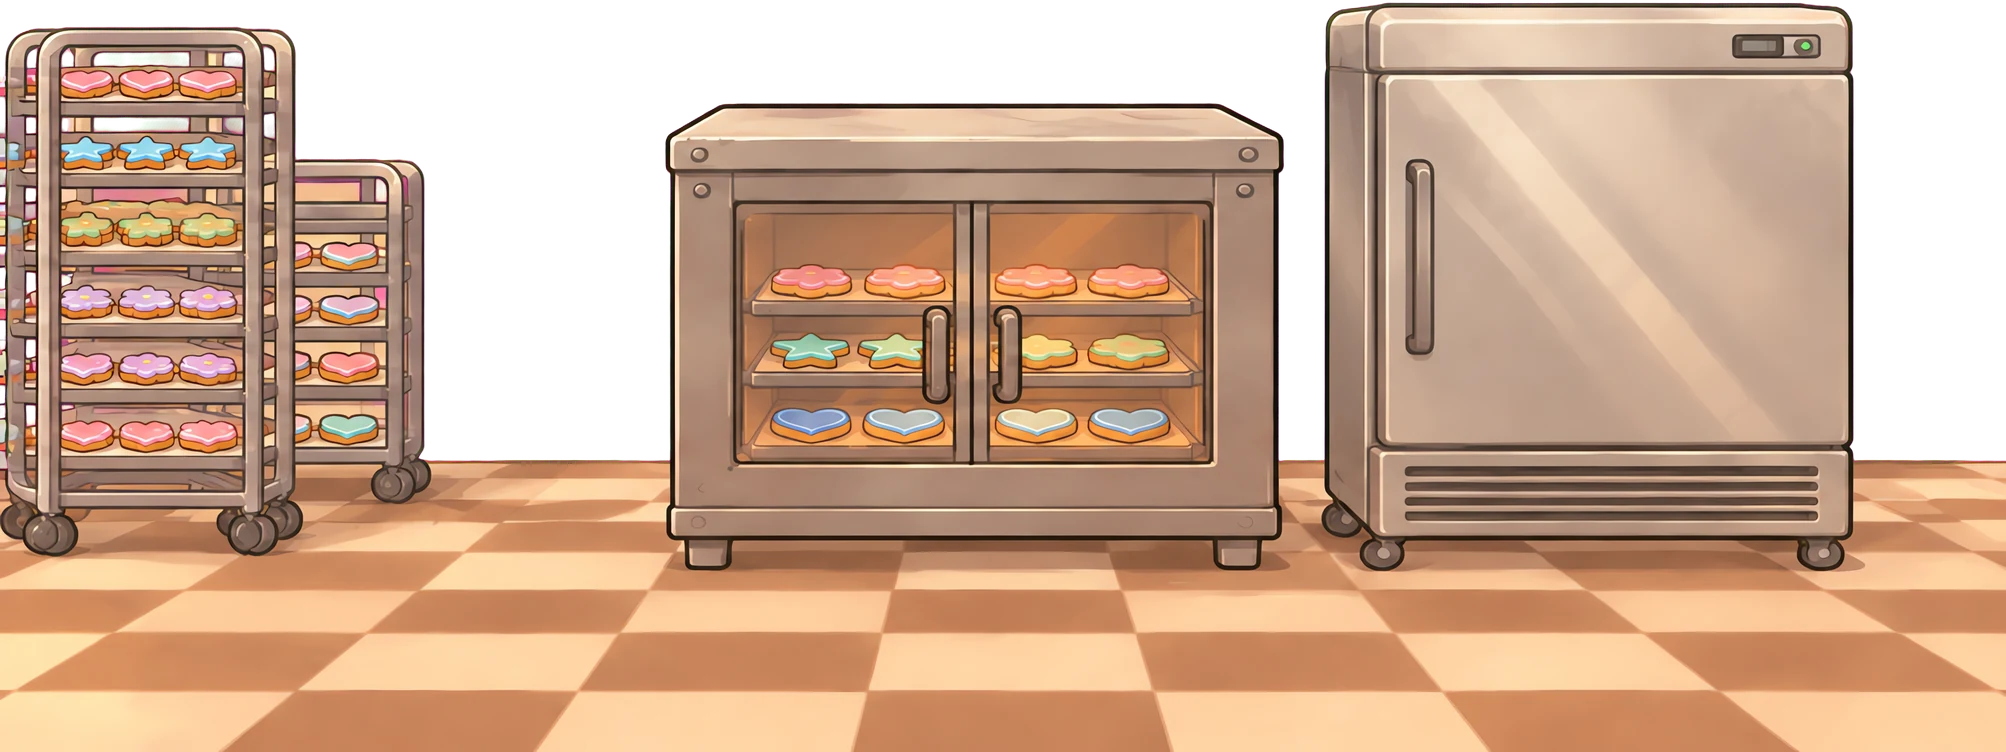
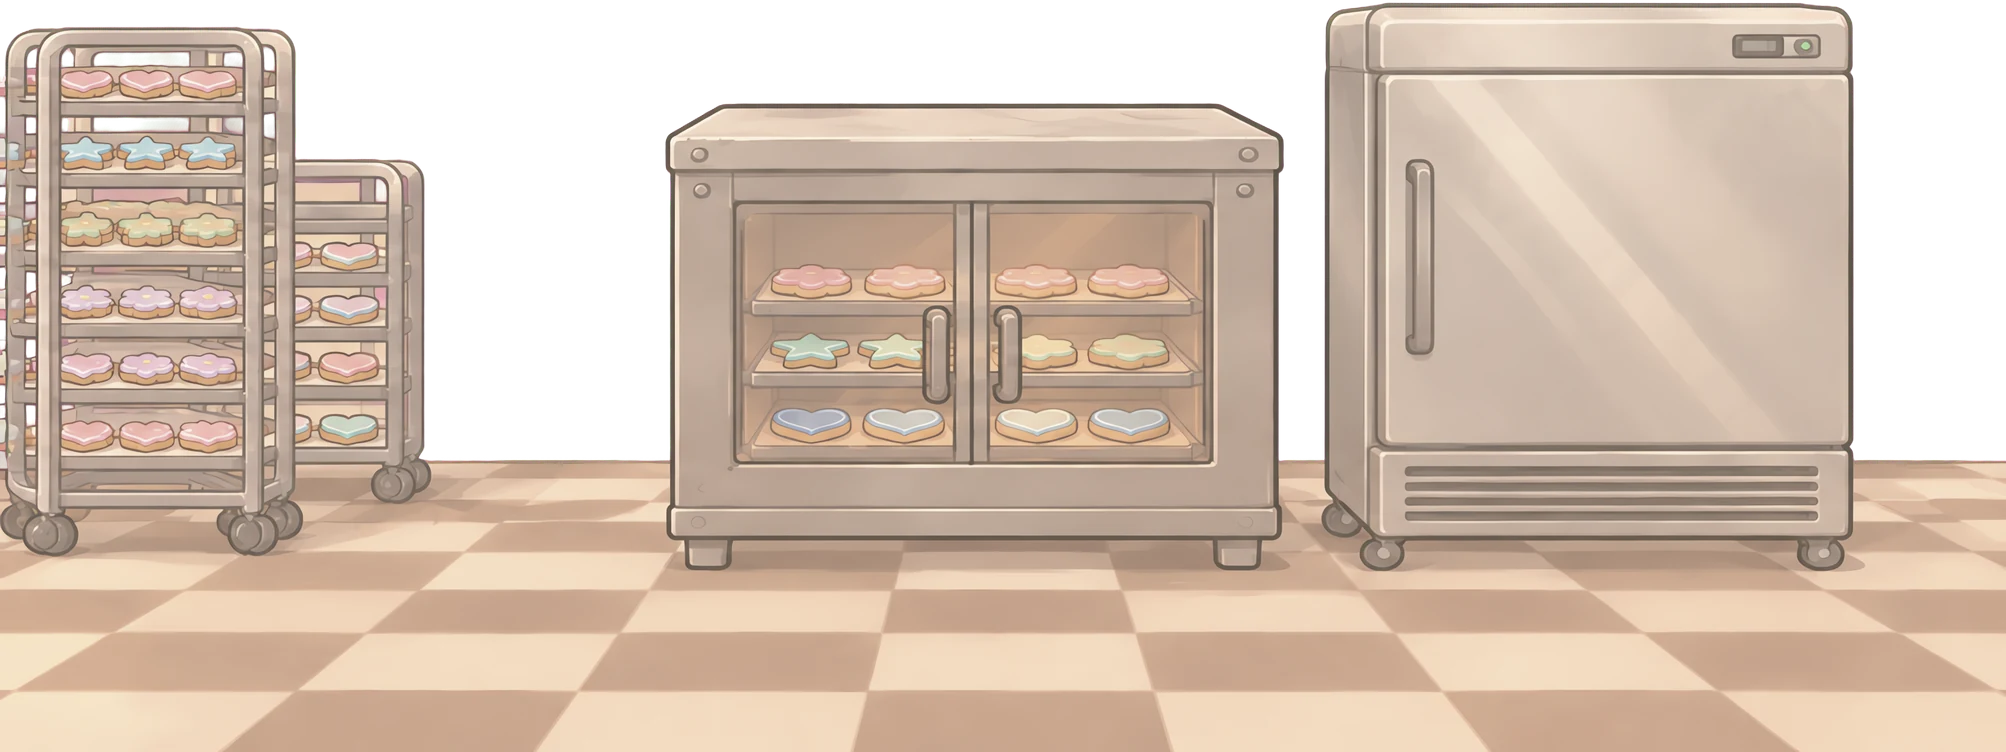
feat(art): fade the pastry kitchen background behind the fighters

diff --git a/packages/game/src/render/stageView.ts b/packages/game/src/render/stageView.ts
@@ -221,7 +221,7 @@ const CONFEITARIA: StageArt = {
       width: 1421.2,
       originX: 0.5,
       originY: 0.5,
-      fillBelow: 0xfacfa9,
+      fillBelow: 0xf0d8c1,
     },
     {
       key: 'far',
@@ -231,7 +231,7 @@ const CONFEITARIA: StageArt = {
       width: 1003.2,
       originX: 0.5,
       originY: 1,
-      fillBelow: 0xe7b083,
+      fillBelow: 0xe1c3aa,
       tiles: 'mirror',
     },
     {
@@ -242,8 +242,8 @@ const CONFEITARIA: StageArt = {
       width: 919.6,
       originX: 0.5,
       originY: 1,
-      // a cor do pé do piso estendido (escurece embaixo)
-      fillBelow: 0x8f6742,
+      // a cor do pé do piso estendido (escurece embaixo), já com o tom da camada
+      fillBelow: 0xa18870,
       tiles: 'mirror',
       floor: 'floor',
     },
